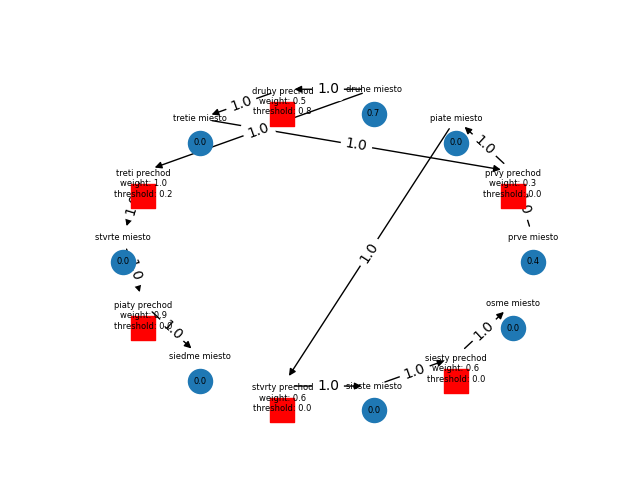
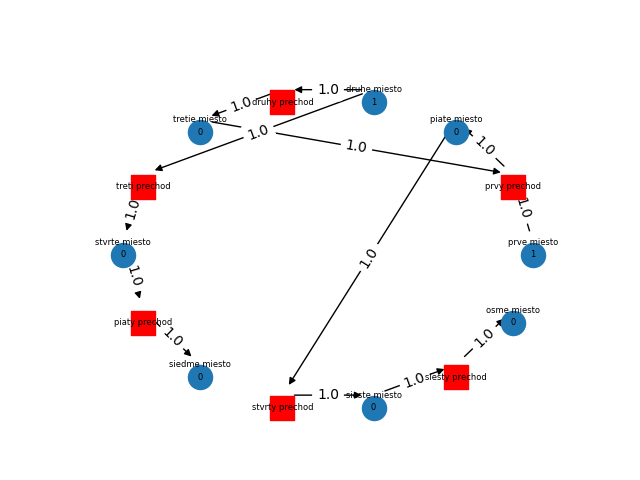
repaired mistakes with another window

diff --git a/main.py b/main.py
@@ -71,7 +71,7 @@ class MainAplication(QtWidgets.QMainWindow):
         self.setCentralWidget(self.main_layout)
         self.setWindowIcon(QtGui.QIcon('C:\\Users\\peter\\OneDrive\\Počítač\\Github\\PIS-bonus\\gui\\icon.jpg'))
         self.setGeometry(200, 200, 800, 600)
-        self.setWindowTitle("Petri nets")
+        self.setWindowTitle("Chronické zlyhávanie srdca")
         self.image_number = 1
 
         # bind events to buttons
@@ -98,7 +98,7 @@ class MainAplication(QtWidgets.QMainWindow):
         self.anotherWindow = self.loader.load(self.ui)
         self.anotherWindow.setWindowIcon(QtGui.QIcon('C:\\Users\\peter\\OneDrive\\Počítač\\Github\\PIS-bonus\\gui\\icon.jpg'))
         self.anotherWindow.setGeometry(200, 200, 800, 600)
-        self.anotherWindow.setWindowTitle("Initial marking")
+        self.anotherWindow.setWindowTitle("Nastavenie váh a prahov pravidiel")
         self.ui.close()
         self.net = None
         self.root = None
@@ -317,7 +317,7 @@ class MainAplication(QtWidgets.QMainWindow):
         self.anotherWindow.placesScrollArea.setWidget(self.anotherWindow.placesWidget)
         self.anotherWindow.OK1.clicked.connect(lambda: [self.set_marking(self.dict_marks), self.delete_text(self.dict_marks)])
         if self.fuzzy_flag and not self.weights_flag and not self.tresholds_flag:
-            self.anotherWindow.OK2.hide()
+            
             self.anotherWindow.OK3.setDisabled(True)
             weightsLayout = QtWidgets.QVBoxLayout()
             self.anotherWindow.weightsWidget.setLayout(weightsLayout)
@@ -329,7 +329,8 @@ class MainAplication(QtWidgets.QMainWindow):
                 weightLayout.addWidget(transitionLabel0)
                 weightsLayout.addLayout(weightLayout)
             self.anotherWindow.weightsScrollArea.setWidget(self.anotherWindow.weightsWidget)
-            
+            self.anotherWindow.OK2.setVisible(False)
+
         if self.weights_flag:
             self.anotherWindow.OK3.setDisabled(True)
             self.anotherWindow.OK2.show()
@@ -380,7 +381,10 @@ class MainAplication(QtWidgets.QMainWindow):
         M0 = []
         for _, value in entries.items():
             if value.text() == '':
-                M0.append(0.0)
+                if self.logical_flag:
+                    M0.append(0)
+                else:
+                    M0.append(0.0)
             else:
                 try:
                     num = float(value.text().replace(',', '.'))
@@ -509,9 +513,14 @@ class MainAplication(QtWidgets.QMainWindow):
         
         fig = plt.figure()
         nx.draw_networkx_nodes(G, pos, places)
-        nx.draw_networkx_labels(
-            G, pos, labels={n: n.tokens for n in places_list}, font_size=6
-        )
+        if self.logical_flag:
+            nx.draw_networkx_labels(
+                G, pos, labels={n: int(n.tokens) for n in places_list}, font_size=6
+            )
+        else:
+            nx.draw_networkx_labels(
+                G, pos, labels={n: n.tokens for n in places_list}, font_size=6
+            )
         
         nx.draw_networkx_nodes(G, pos, transitions, node_shape='s', node_color='#ff0000')
         if weights and not thresholds:
@@ -975,6 +984,7 @@ class MainAplication(QtWidgets.QMainWindow):
     
 
     def run_logical(self):
+        self.net.M0 = [int(i) for i in self.net.M0]
         self.image_number = 1
         self.image_dict = {}
         self.step_dict = {}
@@ -1056,9 +1066,32 @@ class MainAplication(QtWidgets.QMainWindow):
             dialog.setWindowIcon(QtGui.QIcon('C:\\Users\\peter\\OneDrive\\Počítač\\Github\\PIS-bonus\\gui\\icon.jpg'))
             ret = dialog.exec()   # Stores the return value for the button pressed
 
+"""
+class DialogWindow(QtWidgets.QDialog):
+    
+    def __init__(self):
+        super().__init__()
+        self.loader = QUiLoader()
+        self.ui = QFile(".\\gui\\patientWindow.ui")
+        self.ui.open(QFile.ReadOnly)
+        self.main_layout = self.loader.load(self.ui)
+        self.ui.close()
+        self.setWindowIcon(QtGui.QIcon('C:\\Users\\peter\\OneDrive\\Počítač\\Github\\PIS-bonus\\gui\\icon.jpg'))
+        self.setFixedSize(300, 100)
+        self.setWindowTitle("Výber pacienta")
+        self.enroll.clicked.connect(self.open_main_application)
+        self.show()
+
+    def open_main_application(self):
+            self.close()
+            self.main_application = MainAplication()
+            self.main_application.show()
+
+"""
 if __name__ == '__main__':
     #connect()
     app = QtWidgets.QApplication(sys.argv)
+    #dialog = DialogWindow()
     window = MainAplication()  
     window.show()
     sys.exit(app.exec())
